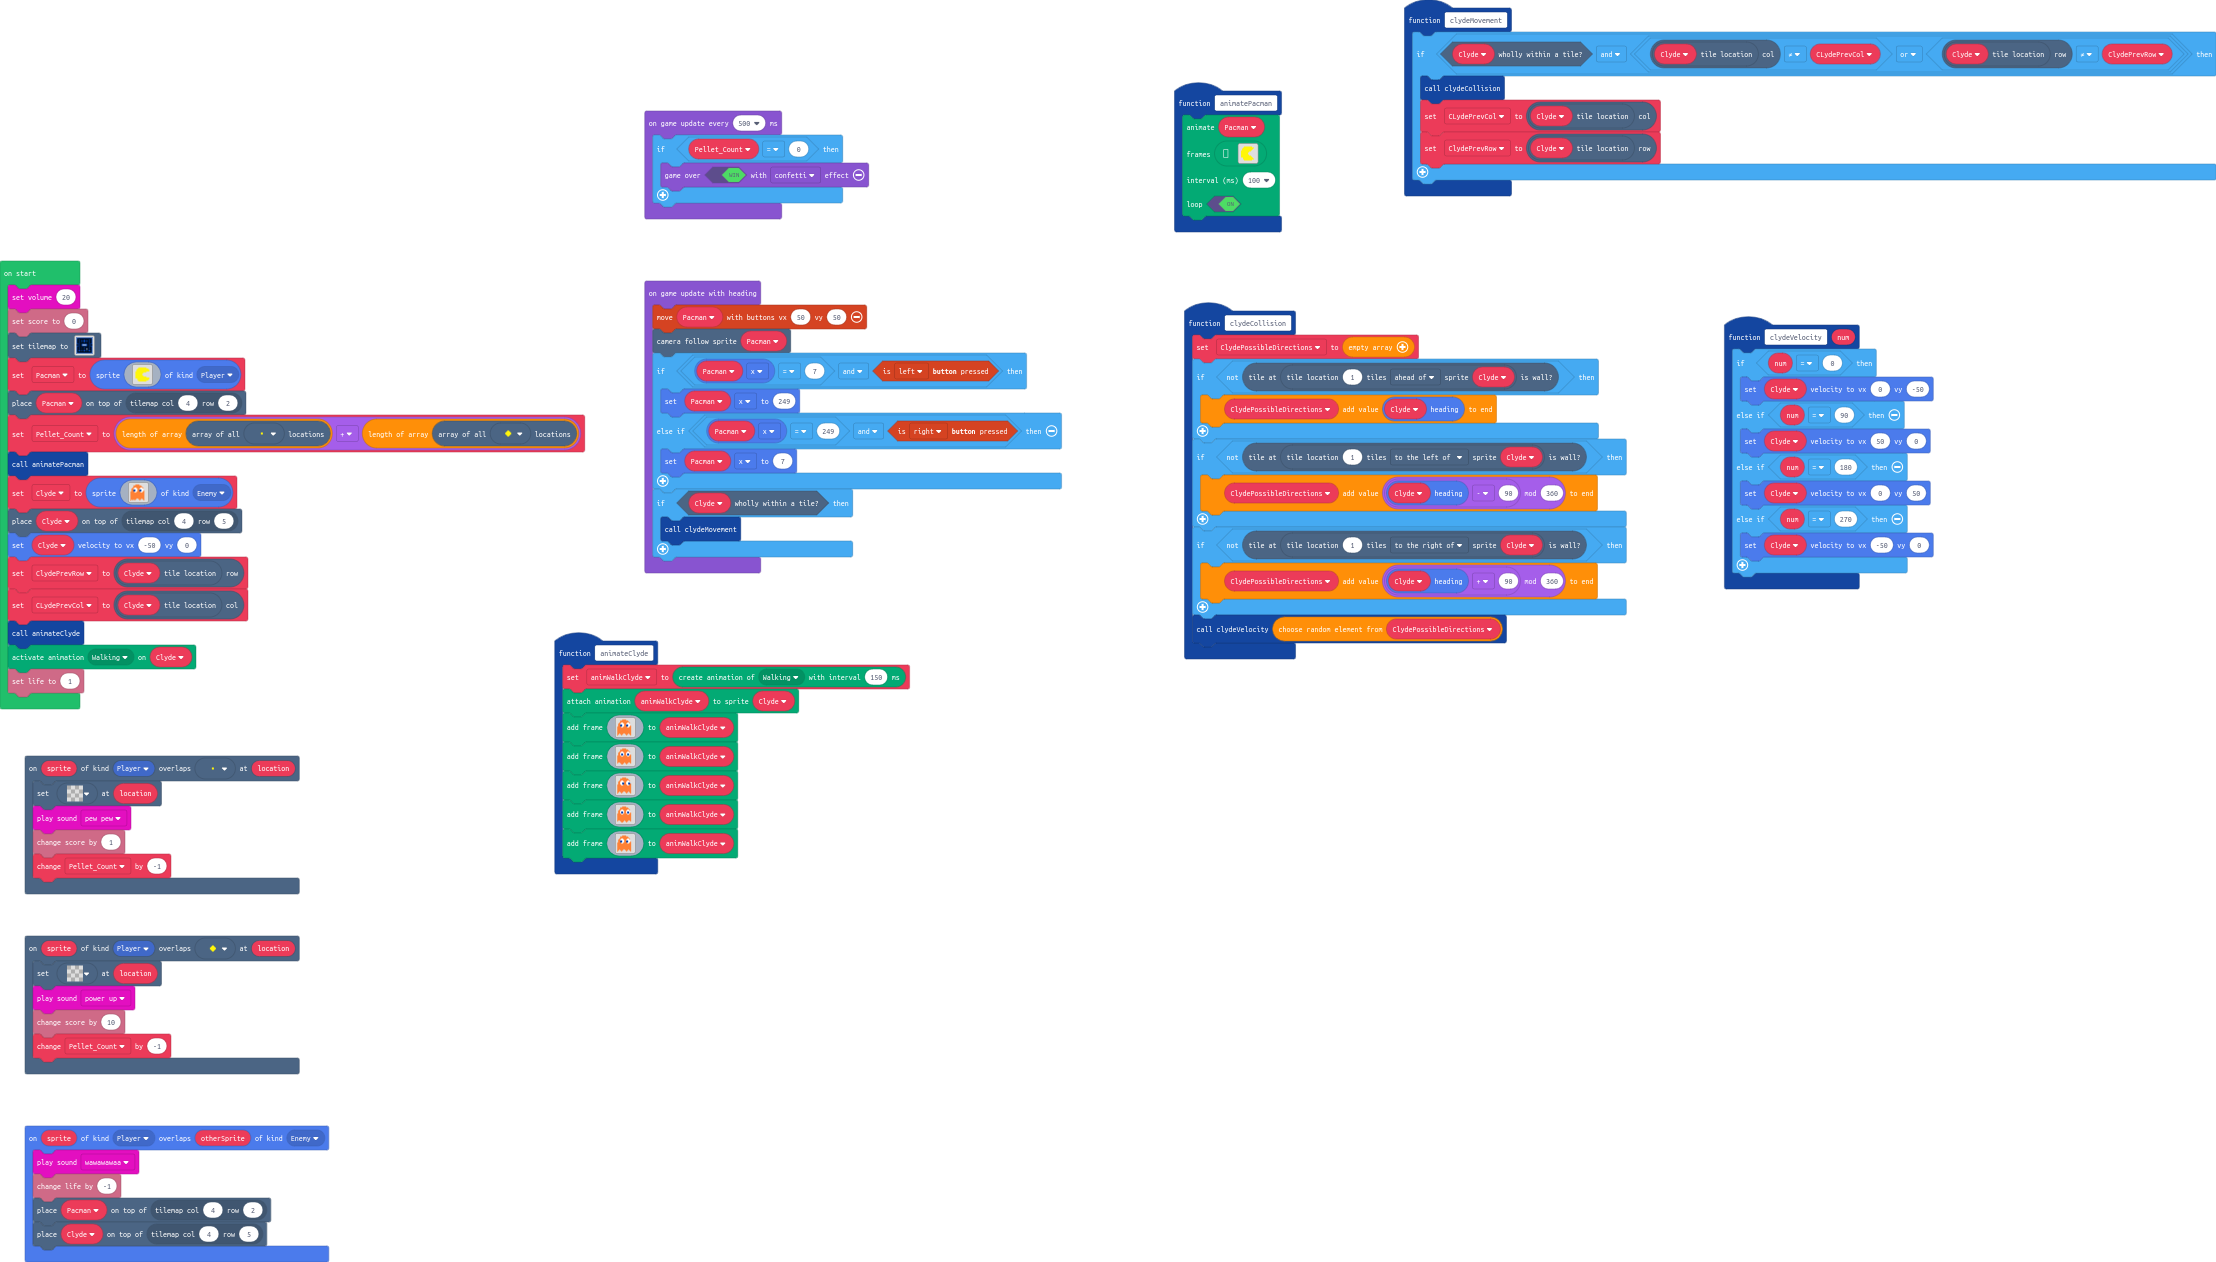
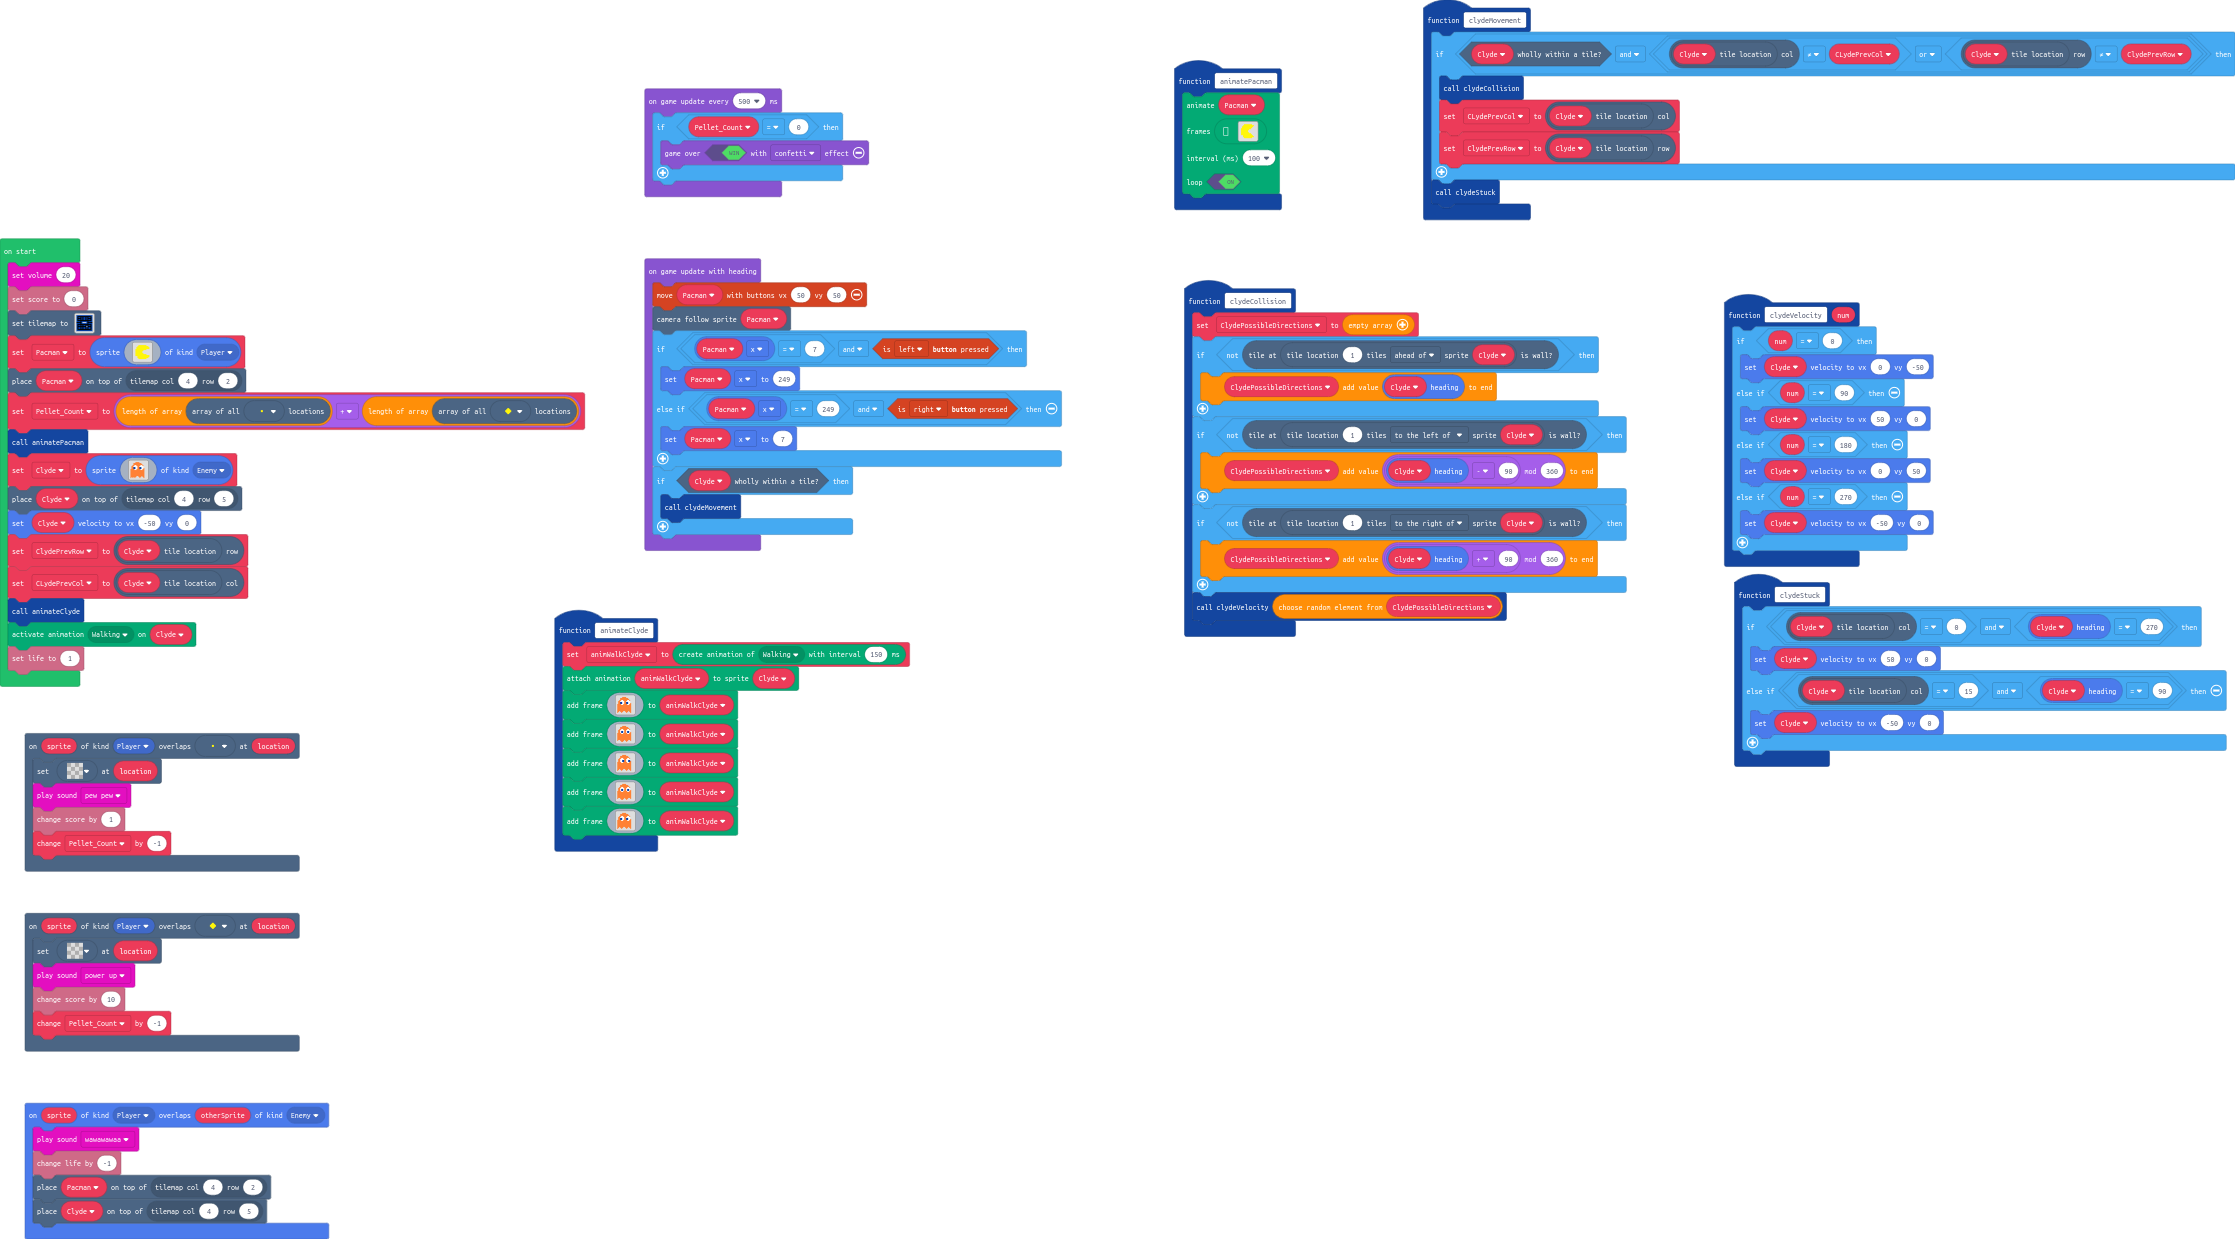
Clyde bounce backs from tunnel.

diff --git a/main.ts b/main.ts
@@ -81,6 +81,13 @@ namespace myTiles {
 . . . . . . . . . . . . . . . . 
 `
 }
+function clydeStuck () {
+    if (scene.getTileColCoordinate(scene.getTileLocationOfSprite(Clyde)) == 0 && sprites.heading(Clyde) == 270) {
+        Clyde.setVelocity(50, 0)
+    } else if (scene.getTileColCoordinate(scene.getTileLocationOfSprite(Clyde)) == 15 && sprites.heading(Clyde) == 90) {
+        Clyde.setVelocity(-50, 0)
+    }
+}
 function animatePacman () {
     animation.runImageAnimation(
     Pacman,
@@ -304,6 +311,7 @@ function clydeMovement () {
         CLydePrevCol = scene.getTileColCoordinate(scene.getTileLocationOfSprite(Clyde))
         ClydePrevRow = scene.getTileRowCoordinate(scene.getTileLocationOfSprite(Clyde))
     }
+    clydeStuck()
 }
 sprites.onOverlap(SpriteKind.Player, SpriteKind.Enemy, function (sprite, otherSprite) {
     music.wawawawaa.play()
